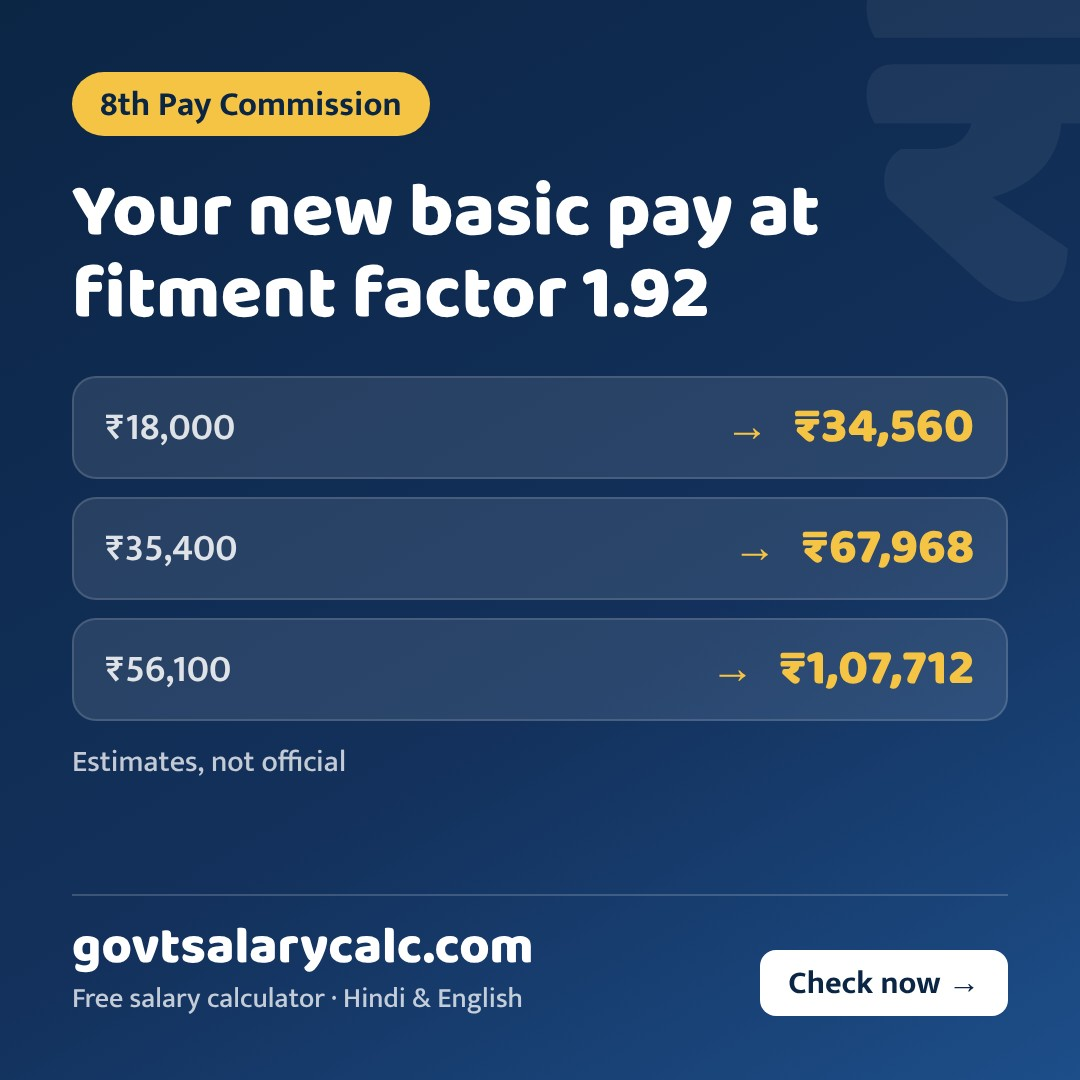
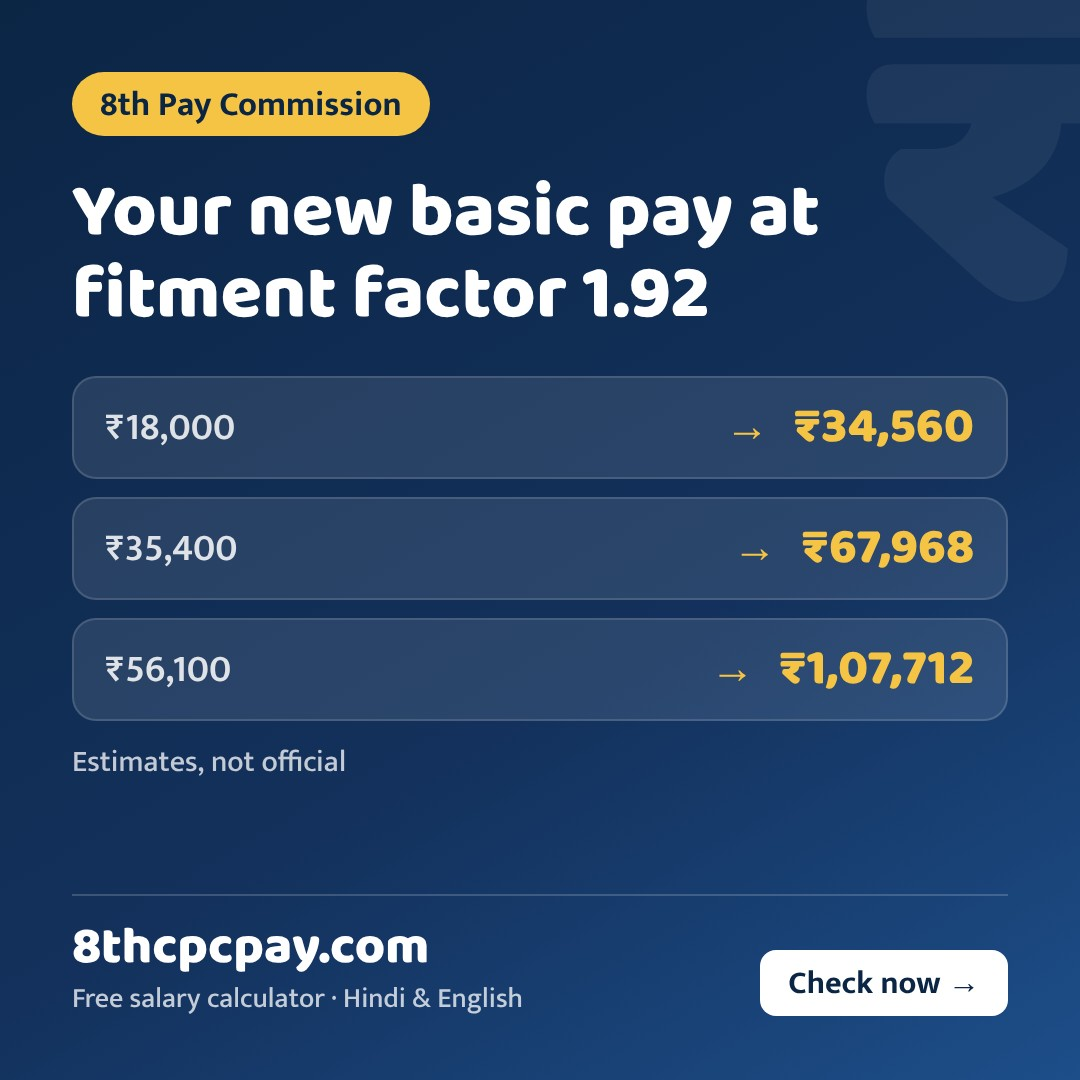
Point the Facebook salary posts at 8thcpcpay.com
Update the 8 salary post links and redraw their cards with the new
domain.

Claude-Session: https://claude.ai/code/session_01ALaiC9BxR7jyr3cXxzaLNU

Changed region(s): [[0.0611, 0.8556, 0.4889, 0.9167]]

diff --git a/social/make-cards.js b/social/make-cards.js
@@ -17,7 +17,7 @@ const posts = JSON.parse(fs.readFileSync(path.join(__dirname, 'facebook-posts.js
 const all = process.argv.includes('--all');
 
 const THEMES = {
-  salary: { site: 'govtsalarycalc.com', sub: 'Free salary calculator · Hindi & English', bg: 'linear-gradient(150deg,#0b2545 0%,#13315c 60%,#1d4e89 100%)', accent: '#f6c445', ink: '#0b2545', mark: '₹' },
+  salary: { site: '8thcpcpay.com', sub: 'Free salary calculator · Hindi & English', bg: 'linear-gradient(150deg,#0b2545 0%,#13315c 60%,#1d4e89 100%)', accent: '#f6c445', ink: '#0b2545', mark: '₹' },
   solar: { site: 'bijlibachaao.com', sub: 'Free solar & bill calculator · Hindi & English', bg: 'linear-gradient(150deg,#08384f 0%,#0b4a6f 55%,#0f6e8c 100%)', accent: '#ffb627', ink: '#08384f', mark: '☀' }
 };
 
